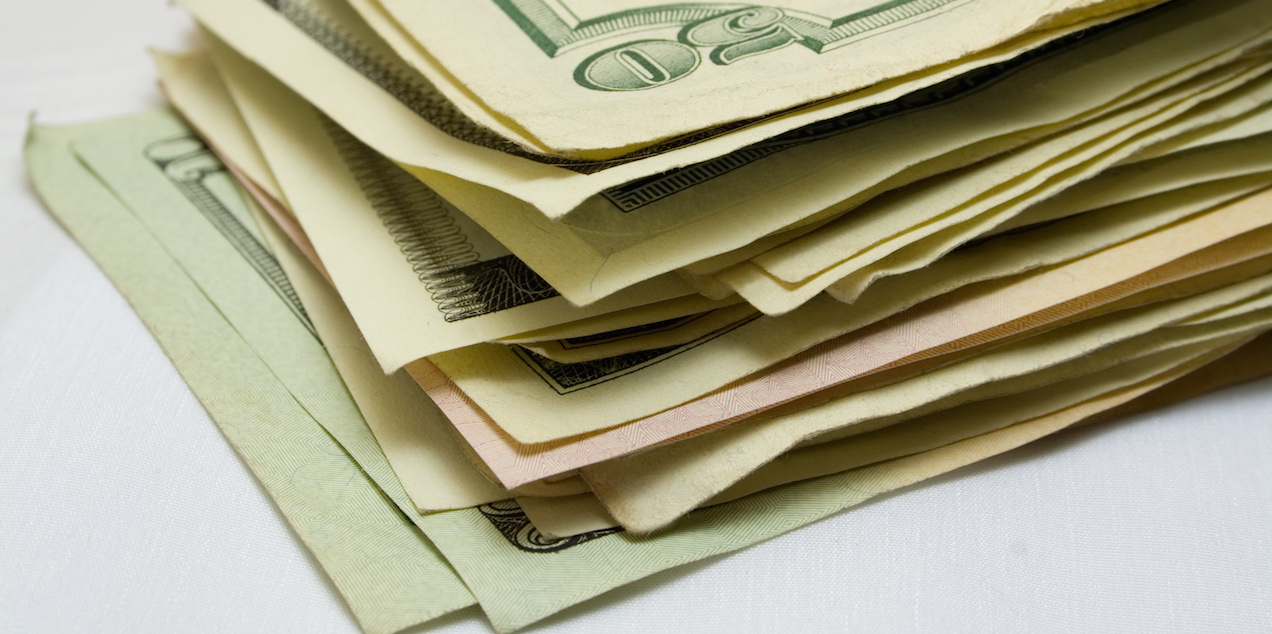
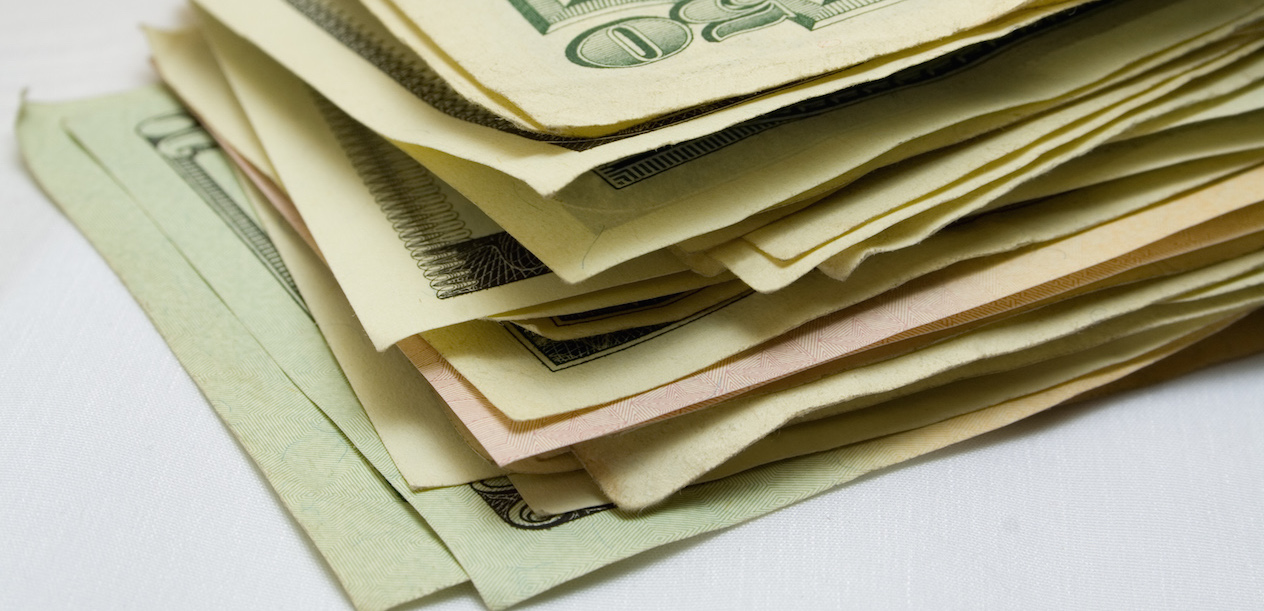
updated photo and added html pages

diff --git a/story1.html b/story1.html
@@ -1,1 +1,34 @@
-story1.html
+<!DOCTYPE html>
+<head>
+    <meta charset="utf-8">
+    <meta name="viewport" content="width=device-width">
+    <link rel="stylesheet" type="text/css" href="css/style.css">
+    <link rel="shortcut icon" type="image/png" href="img/favicon.ico" />
+    <link rel="shortcut icon" type="image/png" href="http://eg.com/favicon.png" />
+    <link rel="shortcut icon" href="../favicon.ico">
+    <link rel="stylesheet" href="https://maxcdn.bootstrapcdn.com/bootstrap/3.3.1/css/bootstrap.min.css">
+    <link rel="stylesheet" href="https://maxcdn.bootstrapcdn.com/bootstrap/3.3.1/css/bootstrap-theme.min.css">
+    <script type="text/javascript" src="js/jQuery/jquery-2.1.1.js"></script>
+    <script src="https://maxcdn.bootstrapcdn.com/bootstrap/3.3.1/js/bootstrap.min.js"></script>
+    <title> UO Tuition Impact </title>
+</head>
+<body>
+
+    <div class="row">
+        <div id="ontop">
+            <div class="col-md-1 col-sm-2 col-xs-2"> <a target="blank" href="http://dailyemerald.com/"><img src="img/logo.png"></a>
+
+            </div>
+            <div class="col-md-10 col-sm-6 col-xs-6"></div>
+            <div class="col-md-1 col-sm-2 col-xs-4 share-buttons">
+                <!-- Facebook --> <a href="http://www.facebook.com/sharer.php?u=http://emrld.co/15QIAgk&text=UO Hockey" target="_blank"><img src="http://www.simplesharebuttons.com/images/somacro/facebook.png" alt="Facebook" /></a>
+
+                <!-- Twitter --> <a href="http://twitter.com/share?url=http://emrld.co/15QIAgk&text=Into Battle: The bruises and bonds of brotherhood&hashtags=UOHockey" target="_blank"><img src="http://www.simplesharebuttons.com/images/somacro/twitter.png" alt="Twitter" /></a>
+
+            </div>
+            <!-- end share-buttons -->
+        </div>
+        <!-- end ontop -->
+        <img src="img/money.jpg" style="width: 101%;">
+    </div>
+    <!-- end row-->

diff --git a/story2.html b/story2.html
@@ -1,1 +1,34 @@
-story2.html
+<!DOCTYPE html>
+<head>
+    <meta charset="utf-8">
+    <meta name="viewport" content="width=device-width">
+    <link rel="stylesheet" type="text/css" href="css/style.css">
+    <link rel="shortcut icon" type="image/png" href="img/favicon.ico" />
+    <link rel="shortcut icon" type="image/png" href="http://eg.com/favicon.png" />
+    <link rel="shortcut icon" href="../favicon.ico">
+    <link rel="stylesheet" href="https://maxcdn.bootstrapcdn.com/bootstrap/3.3.1/css/bootstrap.min.css">
+    <link rel="stylesheet" href="https://maxcdn.bootstrapcdn.com/bootstrap/3.3.1/css/bootstrap-theme.min.css">
+    <script type="text/javascript" src="js/jQuery/jquery-2.1.1.js"></script>
+    <script src="https://maxcdn.bootstrapcdn.com/bootstrap/3.3.1/js/bootstrap.min.js"></script>
+    <title> UO Tuition Impact </title>
+</head>
+<body>
+
+    <div class="row">
+        <div id="ontop">
+            <div class="col-md-1 col-sm-2 col-xs-2"> <a target="blank" href="http://dailyemerald.com/"><img src="img/logo.png"></a>
+
+            </div>
+            <div class="col-md-10 col-sm-6 col-xs-6"></div>
+            <div class="col-md-1 col-sm-2 col-xs-4 share-buttons">
+                <!-- Facebook --> <a href="http://www.facebook.com/sharer.php?u=http://emrld.co/15QIAgk&text=UO Hockey" target="_blank"><img src="http://www.simplesharebuttons.com/images/somacro/facebook.png" alt="Facebook" /></a>
+
+                <!-- Twitter --> <a href="http://twitter.com/share?url=http://emrld.co/15QIAgk&text=Into Battle: The bruises and bonds of brotherhood&hashtags=UOHockey" target="_blank"><img src="http://www.simplesharebuttons.com/images/somacro/twitter.png" alt="Twitter" /></a>
+
+            </div>
+            <!-- end share-buttons -->
+        </div>
+        <!-- end ontop -->
+        <img src="img/money.jpg" style="width: 101%;">
+    </div>
+    <!-- end row-->

diff --git a/story3.html b/story3.html
@@ -1,1 +1,34 @@
-story3.html
+<!DOCTYPE html>
+<head>
+    <meta charset="utf-8">
+    <meta name="viewport" content="width=device-width">
+    <link rel="stylesheet" type="text/css" href="css/style.css">
+    <link rel="shortcut icon" type="image/png" href="img/favicon.ico" />
+    <link rel="shortcut icon" type="image/png" href="http://eg.com/favicon.png" />
+    <link rel="shortcut icon" href="../favicon.ico">
+    <link rel="stylesheet" href="https://maxcdn.bootstrapcdn.com/bootstrap/3.3.1/css/bootstrap.min.css">
+    <link rel="stylesheet" href="https://maxcdn.bootstrapcdn.com/bootstrap/3.3.1/css/bootstrap-theme.min.css">
+    <script type="text/javascript" src="js/jQuery/jquery-2.1.1.js"></script>
+    <script src="https://maxcdn.bootstrapcdn.com/bootstrap/3.3.1/js/bootstrap.min.js"></script>
+    <title> UO Tuition Impact </title>
+</head>
+<body>
+
+    <div class="row">
+        <div id="ontop">
+            <div class="col-md-1 col-sm-2 col-xs-2"> <a target="blank" href="http://dailyemerald.com/"><img src="img/logo.png"></a>
+
+            </div>
+            <div class="col-md-10 col-sm-6 col-xs-6"></div>
+            <div class="col-md-1 col-sm-2 col-xs-4 share-buttons">
+                <!-- Facebook --> <a href="http://www.facebook.com/sharer.php?u=http://emrld.co/15QIAgk&text=UO Hockey" target="_blank"><img src="http://www.simplesharebuttons.com/images/somacro/facebook.png" alt="Facebook" /></a>
+
+                <!-- Twitter --> <a href="http://twitter.com/share?url=http://emrld.co/15QIAgk&text=Into Battle: The bruises and bonds of brotherhood&hashtags=UOHockey" target="_blank"><img src="http://www.simplesharebuttons.com/images/somacro/twitter.png" alt="Twitter" /></a>
+
+            </div>
+            <!-- end share-buttons -->
+        </div>
+        <!-- end ontop -->
+        <img src="img/money.jpg" style="width: 101%;">
+    </div>
+    <!-- end row-->
